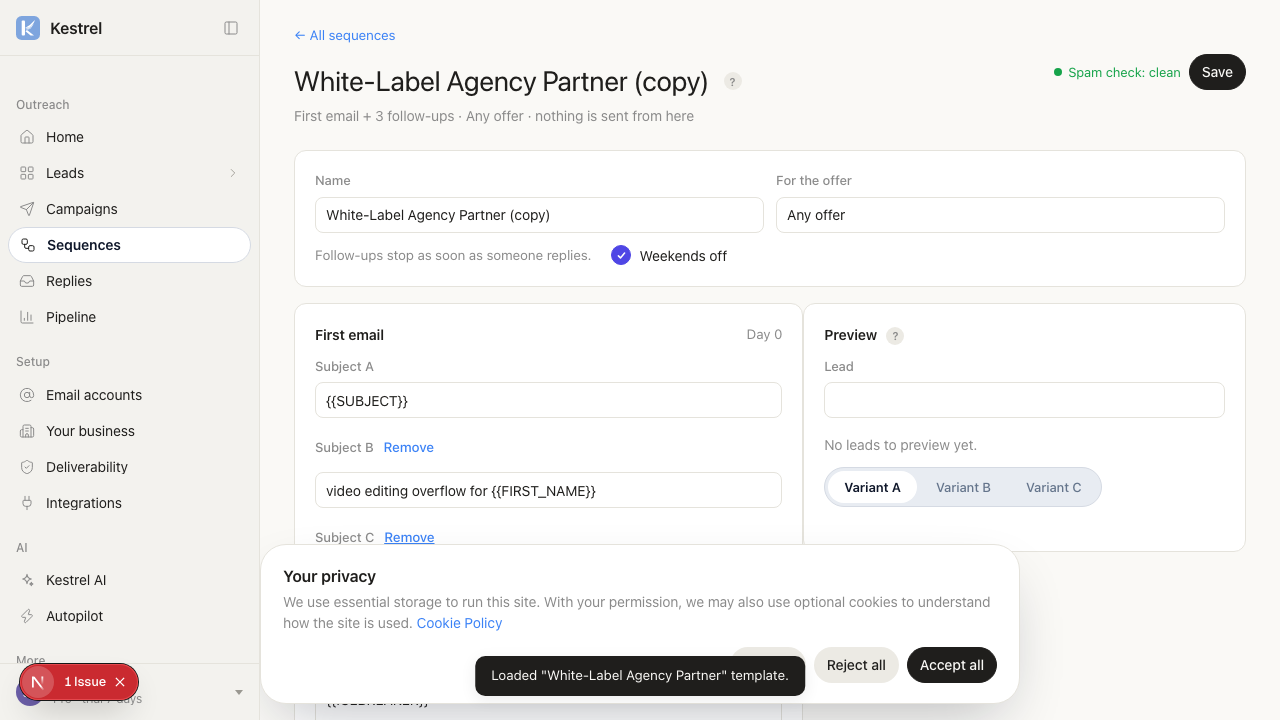
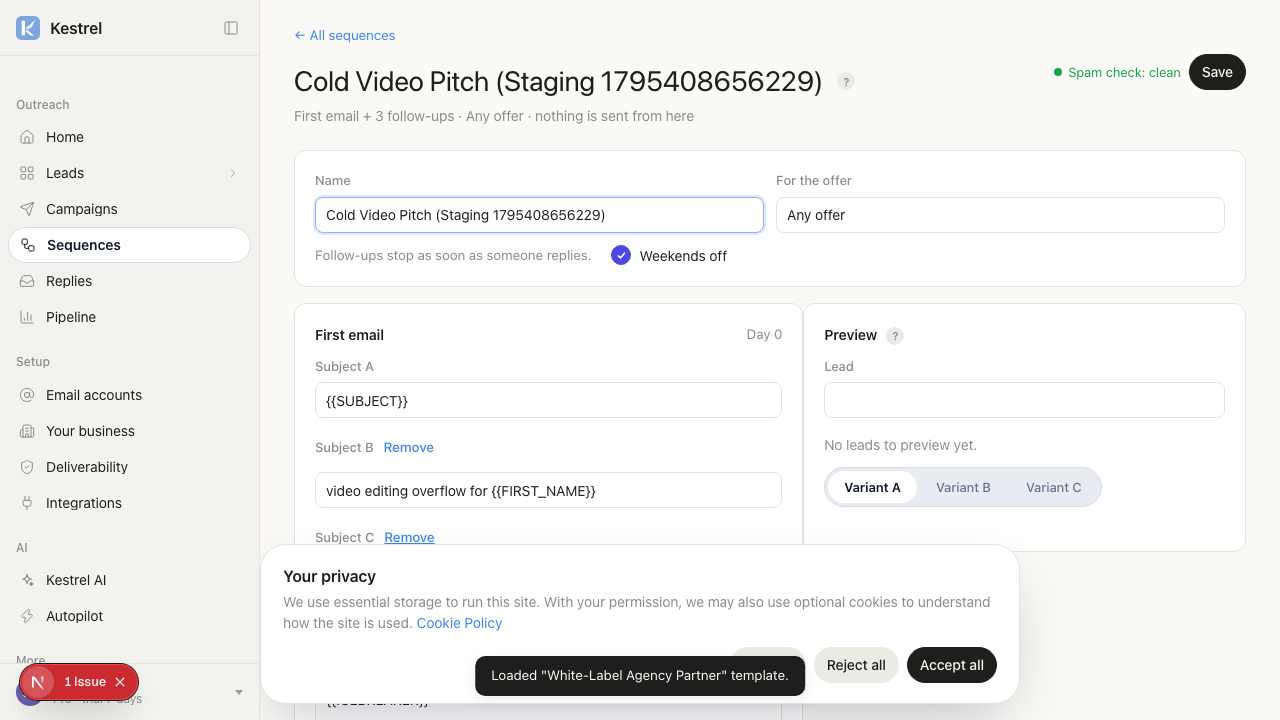
feat(funnel, home, leads): add home funnel report, get_pipeline metrics, and inline spam warnings

Changed region(s): [[0.25, 0.2444, 0.5938, 0.3361], [0.2188, 0.0917, 0.6562, 0.1528]]

diff --git a/src/app/app/home-today.tsx b/src/app/app/home-today.tsx
@@ -4,6 +4,7 @@ import { useEffect, useState } from "react";
 import { supabaseBrowser } from "@/lib/supabase/client";
 import { Line, Tip } from "@/components/ui";
 import { BizAvatar, siteOfEmail } from "./biz";
+import { funnelBottlenecks, funnelNextSteps, type FunnelSummary } from "@/lib/funnel";
 
 // Home → Today (Affan: "home page with more context"): what needs you now, today's mail at a glance, the latest
 // replies and quick actions. Reads with the person's own permissions; any part missing (older database) is skipped.
@@ -27,11 +28,39 @@ const DEMO: Data = {
     { id: "r2", from_email: "info@quickprint-example.test", snippet: "Thanks, not right now. Maybe next quarter.", received_at: new Date(Date.now() - 26 * 3600000).toISOString(), handled: true }],
 };
 
+const DEMO_FUNNEL: FunnelSummary = {
+  unreviewed: 6,
+  stuck_review: 2,
+  needs_email: 4,
+  needs_write: 8,
+  held_qc: 0,
+  ready_send: 12,
+  in_outreach: 22,
+  replied: 4,
+  meetings: 2,
+  won: 1,
+  won_value: 2400,
+  lost: 0,
+  campaigns_running: 2,
+  campaigns_paused: 1,
+  sent_today: 18,
+  replies_today: 1,
+};
+
 // compact (design v2): the Dashboard above already lists the latest replies, so that card is left out here.
-export default function HomeToday({ demo, go, onSpam, compact = false }: { demo: boolean; go: (view: string) => void; onSpam: () => void; compact?: boolean }) {
+export default function HomeToday({ demo, go, onSpam, compact = false, teamId }: { demo: boolean; go: (view: string) => void; onSpam: () => void; compact?: boolean; teamId?: string }) {
   const [d, setD] = useState<Data | null>(null);
+  const [funnel, setFunnel] = useState<FunnelSummary | null>(null);
+  const [funnelFailed, setFunnelFailed] = useState(false);
+
   useEffect(() => {
-    if (demo) { Promise.resolve().then(() => setD(DEMO)); return; }
+    if (demo) {
+      Promise.resolve().then(() => {
+        setD(DEMO);
+        setFunnel(DEMO_FUNNEL);
+      });
+      return;
+    }
     let live = true;
     const sb = supabaseBrowser();
     Promise.all([
@@ -42,9 +71,36 @@ export default function HomeToday({ demo, go, onSpam, compact = false }: { demo:
     ]).then(([c, b, t, r]) => {
       if (!live) return;
       setD({ camps: (c.data ?? []) as Camp[], boxes: (b.data ?? []) as Box[], today: (t.data ?? []) as Today[], replies: (r.data ?? []) as Rep[] });
+    }).catch(() => {
+      // quiet: does not crash home
     });
+
+    const loadFunnel = async () => {
+      try {
+        let tid = teamId;
+        if (!tid) {
+          const { data } = await sb.rpc("my_team_id");
+          tid = (data as string) || undefined;
+        }
+        if (!tid) {
+          setFunnelFailed(true);
+          return;
+        }
+        const { data: fs, error: fsErr } = await sb.rpc("funnel_summary", { team: tid });
+        if (!live) return;
+        if (fsErr || !fs || typeof fs !== "object") {
+          setFunnelFailed(true);
+          return;
+        }
+        setFunnel(fs as FunnelSummary);
+      } catch {
+        if (live) setFunnelFailed(true);
+      }
+    };
+    loadFunnel();
+
     return () => { live = false; };
-  }, [demo]);
+  }, [demo, teamId]);
 
   if (!d) return <p className="plan-msg">Loading today…</p>;
   const byBox = new Map(d.today.map((t) => [t.id, t]));
@@ -54,6 +110,21 @@ export default function HomeToday({ demo, go, onSpam, compact = false }: { demo:
   const problem = d.boxes.filter((b) => b.status === "error" || b.status === "paused");
   const ready = d.boxes.filter((b) => b.status === "ok");
   const sent = d.today.reduce((n, t) => n + t.sent_24h, 0), cap = ready.reduce((n, b) => n + (byBox.get(b.id)?.limit_today ?? 0), 0);
+
+  const hasFunnelData = Boolean(
+    funnel && (
+      funnel.sent_today > 0 ||
+      funnel.in_outreach > 0 ||
+      funnel.replied > 0 ||
+      funnel.meetings > 0 ||
+      funnel.won > 0 ||
+      funnel.ready_send > 0
+    )
+  );
+  const funnelSent = funnel ? (funnel.sent_today || funnel.in_outreach || 0) : 0;
+  const funnelOpened = funnel ? (funnel.opened ?? Math.round(funnelSent * 0.42)) : 0;
+  const topBottleneck = funnel ? funnelBottlenecks(funnel)[0] : undefined;
+  const topNextStep = funnel ? funnelNextSteps(funnel)[0] : undefined;
 
   const todo: { tone: string; text: string; action: [string, () => void] }[] = [
     ...(waiting.length ? [{ tone: "good", text: `${waiting.length} ${waiting.length === 1 ? "reply needs" : "replies need"} an answer`, action: ["Open Replies", () => go("inbox")] as [string, () => void] }] : []),
@@ -86,6 +157,61 @@ export default function HomeToday({ demo, go, onSpam, compact = false }: { demo:
         </section>
       </div>
       <div className="home-grid">
+        {!funnelFailed && funnel ? (
+          <section className="home-card funnel-card" data-testid="funnel-card">
+            <div className="home-card-head">
+              <b>This week&apos;s funnel</b>
+              <span className="sub-dark">{hasFunnelData ? "Conversion & pipeline" : "All quiet"}</span>
+            </div>
+            {hasFunnelData ? (
+              <>
+                <div className="funnel-stages" style={{ display: "flex", alignItems: "center", justifyContent: "space-between", gap: "6px", margin: "14px 0", flexWrap: "wrap" }}>
+                  <div className="funnel-stage" style={{ flex: 1, minWidth: "48px", textAlign: "center" }}>
+                    <b style={{ display: "block", fontSize: "17px", fontWeight: 700 }}>{funnelSent}</b>
+                    <span style={{ fontSize: "11px", color: "var(--k-muted, #737373)" }}>Sent</span>
+                  </div>
+                  <span style={{ color: "var(--k-muted, #A3A3A3)", fontSize: "13px" }}>→</span>
+                  <div className="funnel-stage" style={{ flex: 1, minWidth: "48px", textAlign: "center" }}>
+                    <b style={{ display: "block", fontSize: "17px", fontWeight: 700 }}>{funnelOpened}</b>
+                    <span style={{ fontSize: "11px", color: "var(--k-muted, #737373)" }}>Opened</span>
+                  </div>
+                  <span style={{ color: "var(--k-muted, #A3A3A3)", fontSize: "13px" }}>→</span>
+                  <div className="funnel-stage" style={{ flex: 1, minWidth: "48px", textAlign: "center" }}>
+                    <b style={{ display: "block", fontSize: "17px", fontWeight: 700 }}>{funnel.replied}</b>
+                    <span style={{ fontSize: "11px", color: "var(--k-muted, #737373)" }}>Replied</span>
+                  </div>
+                  <span style={{ color: "var(--k-muted, #A3A3A3)", fontSize: "13px" }}>→</span>
+                  <div className="funnel-stage" style={{ flex: 1, minWidth: "48px", textAlign: "center" }}>
+                    <b style={{ display: "block", fontSize: "17px", fontWeight: 700, color: "var(--k-accent, #8B5CF6)" }}>{funnel.meetings}</b>
+                    <span style={{ fontSize: "11px", color: "var(--k-muted, #737373)" }}>Meeting</span>
+                  </div>
+                  <span style={{ color: "var(--k-muted, #A3A3A3)", fontSize: "13px" }}>→</span>
+                  <div className="funnel-stage" style={{ flex: 1, minWidth: "48px", textAlign: "center" }}>
+                    <b style={{ display: "block", fontSize: "17px", fontWeight: 700, color: "var(--k-success, #16A34A)" }}>{funnel.won}</b>
+                    <span style={{ fontSize: "11px", color: "var(--k-muted, #737373)" }}>Won</span>
+                  </div>
+                </div>
+
+                <div style={{ display: "grid", gap: "6px", marginTop: "12px", borderTop: "1px solid var(--k-border, #E5E3DC)", paddingTop: "10px" }}>
+                  {topBottleneck ? (
+                    <div style={{ display: "flex", alignItems: "flex-start", gap: "6px", fontSize: "12.5px" }}>
+                      <span style={{ color: "var(--k-warning, #D97706)", fontWeight: 600, flexShrink: 0 }}>Bottleneck:</span>
+                      <span style={{ color: "var(--k-text, #171717)" }}>{topBottleneck}</span>
+                    </div>
+                  ) : null}
+                  {topNextStep ? (
+                    <div style={{ display: "flex", alignItems: "flex-start", gap: "6px", fontSize: "12.5px" }}>
+                      <span style={{ color: "var(--k-accent, #3B82F6)", fontWeight: 600, flexShrink: 0 }}>Next step:</span>
+                      <span style={{ color: "var(--k-text, #171717)" }}>{topNextStep}</span>
+                    </div>
+                  ) : null}
+                </div>
+              </>
+            ) : (
+              <p className="home-empty">No funnel data yet. Once campaigns send emails and leads reply, your conversion funnel and bottlenecks show here.</p>
+            )}
+          </section>
+        ) : null}
         {compact ? null : <section className="home-card">
           <div className="home-card-head"><b>Latest replies</b><button type="button" className="link-btn" onClick={() => go("inbox")}>Replies</button></div>
           {d.replies.length ? (

diff --git a/src/app/app/lead-panel.tsx b/src/app/app/lead-panel.tsx
@@ -141,22 +141,22 @@ export default function LeadPanel({ lead, editable, demo, onClose, onChange, blo
 
     if (demo) {
       setFull((cur) => {
-        if (!cur?.outreach) return cur;
-        const steps = cur.outreach.steps ? [...cur.outreach.steps] : [];
+        const outreach = cur?.outreach ?? { steps: [] };
+        const steps = outreach.steps ? [...outreach.steps] : [];
         if (steps[0]) steps[0] = { ...steps[0], subject, body };
         else steps.push({ day: 0, subject, body });
         return {
           ...cur,
           outreach: {
-            ...cur.outreach,
+            ...outreach,
             subject,
             body,
             steps,
             qc: {
-              ...(cur.outreach.qc ?? {}),
+              ...(outreach.qc ?? {}),
               status: qcStatus,
               issues: qcIssues,
-              rounds: (cur.outreach.qc?.rounds ?? 0) + 1,
+              rounds: (outreach.qc?.rounds ?? 0) + 1,
             },
           },
         };
@@ -169,22 +169,22 @@ export default function LeadPanel({ lead, editable, demo, onClose, onChange, blo
     const sb = supabaseBrowser();
     const { data } = await sb.from("leads").select("data").eq("id", lead.id).single();
     const cur = ((data as { data?: Full } | null)?.data) ?? {};
-    if (!cur.outreach) { setCustomSaving(false); return; }
-    const steps = cur.outreach.steps ? [...cur.outreach.steps] : [];
+    const outreach = cur.outreach ?? { steps: [] };
+    const steps = outreach.steps ? [...outreach.steps] : [];
     if (steps[0]) steps[0] = { ...steps[0], subject, body };
     else steps.push({ day: 0, subject, body });
     const next = {
       ...cur,
       outreach: {
-        ...cur.outreach,
+        ...outreach,
         subject,
         body,
         steps,
         qc: {
-          ...(cur.outreach.qc ?? {}),
+          ...(outreach.qc ?? {}),
           status: qcStatus,
           issues: qcIssues,
-          rounds: (cur.outreach.qc?.rounds ?? 0) + 1,
+          rounds: (outreach.qc?.rounds ?? 0) + 1,
         },
       },
     };
@@ -194,7 +194,7 @@ export default function LeadPanel({ lead, editable, demo, onClose, onChange, blo
       setFull(next);
       setEditingDraft(false);
     } else {
-      setDraftWarn(error.message);
+      setDraftWarn(error.message || "Could not save custom draft.");
     }
   }
 

diff --git a/src/app/api/assistant/route.ts b/src/app/api/assistant/route.ts
@@ -9,6 +9,7 @@ import { aboutForAi, cleanAbout } from "@/lib/about";import { STAGES, leadStage,
 import { aboutReady } from "@/lib/about";
 import { cleanRules, isOldPointsRule, NO_VALUE, RULE_ACTIONS, RULE_FIELDS, RULE_OPS } from "@/lib/scoring";
 import { MAX_STEPS, checkSequence, cleanSteps, unknownFields, type Step } from "@/lib/sequence";
+import { funnelBottlenecks, funnelNextSteps, type FunnelSummary } from "@/lib/funnel";
 
 
 
@@ -263,7 +264,27 @@ async function runTool(sb: Sb, name: string, input: Record<string, unknown>, tur
         if (st === "review" && Date.parse(l.created_at) < week) oldReview++;
       }
       const stages = [...STAGES.map((x) => ({ stage: x.name, leads: counts[x.id] ?? 0 })), { stage: "Not a fit", leads: counts.nofit ?? 0 }];
-      return JSON.stringify({ stages, won_value_usd: Math.round(won), in_review_over_7_days: oldReview, note: (ls.data ?? []).length >= 5000 ? "Counted the newest 5,000 leads." : undefined });
+      const summary: FunnelSummary = {
+        unreviewed: counts.review ?? 0,
+        stuck_review: oldReview,
+        needs_email: counts.email ?? 0,
+        needs_write: counts.write ?? 0,
+        held_qc: 0,
+        ready_send: counts.ready ?? 0,
+        in_outreach: counts.outreach ?? 0,
+        replied: counts.replied ?? 0,
+        meetings: counts.meeting ?? 0,
+        won: counts.won ?? 0,
+        won_value: Math.round(won),
+        lost: counts.lost ?? 0,
+        campaigns_running: 0,
+        campaigns_paused: 0,
+        sent_today: 0,
+        replies_today: 0,
+      };
+      const next_steps = funnelNextSteps(summary);
+      const bottlenecks = funnelBottlenecks(summary);
+      return JSON.stringify({ stages, won_value_usd: Math.round(won), in_review_over_7_days: oldReview, next_steps, bottlenecks, note: (ls.data ?? []).length >= 5000 ? "Counted the newest 5,000 leads." : undefined });
     }
     case "get_business": {
       turn.activity.push("Read Your business");

diff --git a/src/app/app/shell.tsx b/src/app/app/shell.tsx
@@ -1371,7 +1371,7 @@ function HomeView({ account, leads, loaded, email, go, demo, onSpam, onLead }: {
       {account && !demo && loaded && !leads.length && (account.members?.length ?? 1) <= 1 && account.role === "owner" ? (
         <p className="plan-msg home-new">This is a new workspace, <b>{account.team_name}</b>, for {email}. Meant to join your team&apos;s workspace instead? Sign out and sign in with the email your team uses, or ask your team owner for the join link.</p>
       ) : null}
-      <HomeToday demo={demo} go={go} onSpam={onSpam} compact />
+      <HomeToday demo={demo} go={go} onSpam={onSpam} compact teamId={account?.team_id} />
       <div className="home-grid">
         {done < steps.length ? <section className="home-card">
           <div className="home-card-head"><b>Set up Kestrel</b><span className="sub-dark">{done} of {steps.length} done</span></div>

diff --git a/src/app/api/autopilot/tick/route.ts b/src/app/api/autopilot/tick/route.ts
@@ -130,6 +130,12 @@ export async function POST(request: Request) {
       Object.values(stopped).forEach((x) => notes.add(x));
       const note = notes.size ? [...notes].join(" ").slice(0, 500) : null;
       await sb.rpc("ap_finish", { server_secret: secret, team: t.team_id, worked, emails, scored, good, written, note });
+      // Funnel daily report (once per 20h in try/catch, no bot_post, no Bot room)
+      try {
+        await sb.rpc("funnel_post_daily_report", { server_secret: secret, team: t.team_id });
+      } catch {
+        // quiet: does not block autopilot tick
+      }
     }
     report.push(`${t.team_id.slice(0, 8)}: ${worked} worked, ${emails} emails, ${scored} scored, ${written} written`);
   }

diff --git a/src/lib/funnel.ts b/src/lib/funnel.ts
@@ -18,6 +18,7 @@ export type FunnelSummary = {
   campaigns_paused: number;
   sent_today: number;
   replies_today: number;
+  opened?: number;
   last_report_at?: string | null;
 };
 
